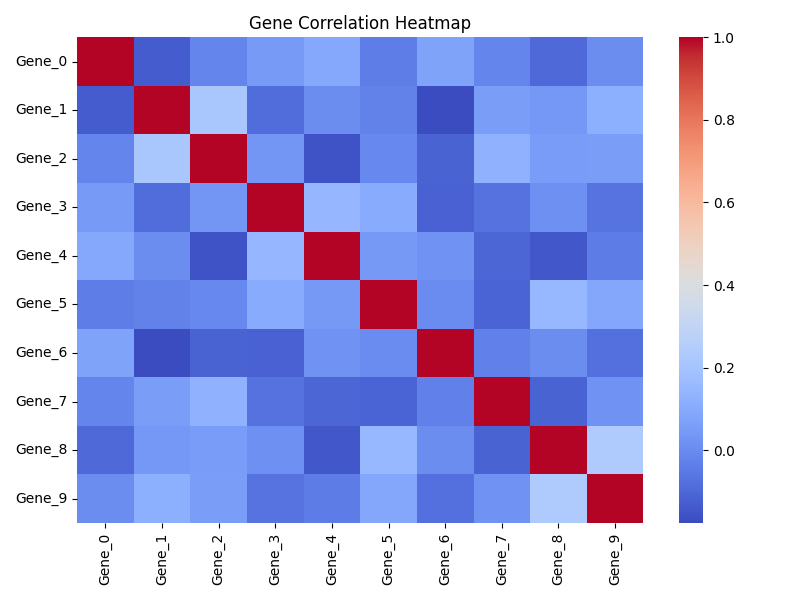
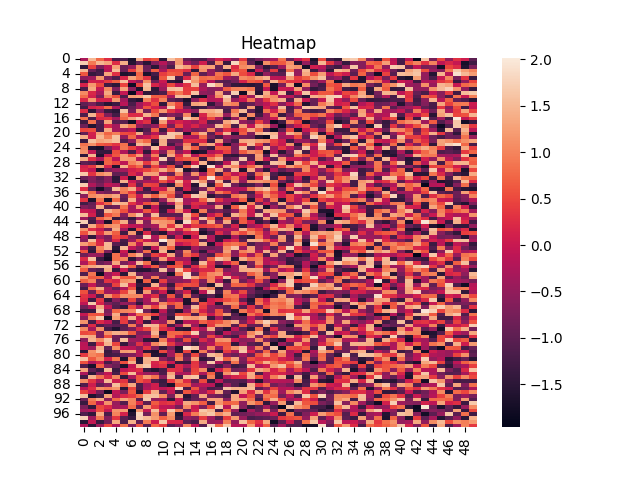
working gene expression analysis project

diff --git a/src/pipeline.py b/src/pipeline.py
@@ -1,0 +1,39 @@
+import os
+import numpy as np
+import pandas as pd
+import matplotlib.pyplot as plt
+import seaborn as sns
+from sklearn.preprocessing import StandardScaler
+from sklearn.decomposition import PCA
+
+def main():
+
+    base_dir = os.path.dirname(os.path.dirname(__file__))
+    outputs = os.path.join(base_dir, "outputs")
+    os.makedirs(outputs, exist_ok=True)
+
+    np.random.seed(42)
+    X = np.random.rand(100, 50)
+
+    scaler = StandardScaler()
+    X_scaled = scaler.fit_transform(X)
+
+    pca = PCA(n_components=2)
+    X_pca = pca.fit_transform(X_scaled)
+
+    plt.figure()
+    sns.heatmap(X_scaled)
+    plt.title("Heatmap")
+    plt.savefig(os.path.join(outputs, "heatmap.png"))
+    plt.close()
+
+    plt.figure()
+    plt.scatter(X_pca[:, 0], X_pca[:, 1])
+    plt.title("PCA Plot")
+    plt.savefig(os.path.join(outputs, "pca_plot.png"))
+    plt.close()
+
+    print("Pipeline completed successfully")
+
+if __name__ == "__main__":
+    main()
